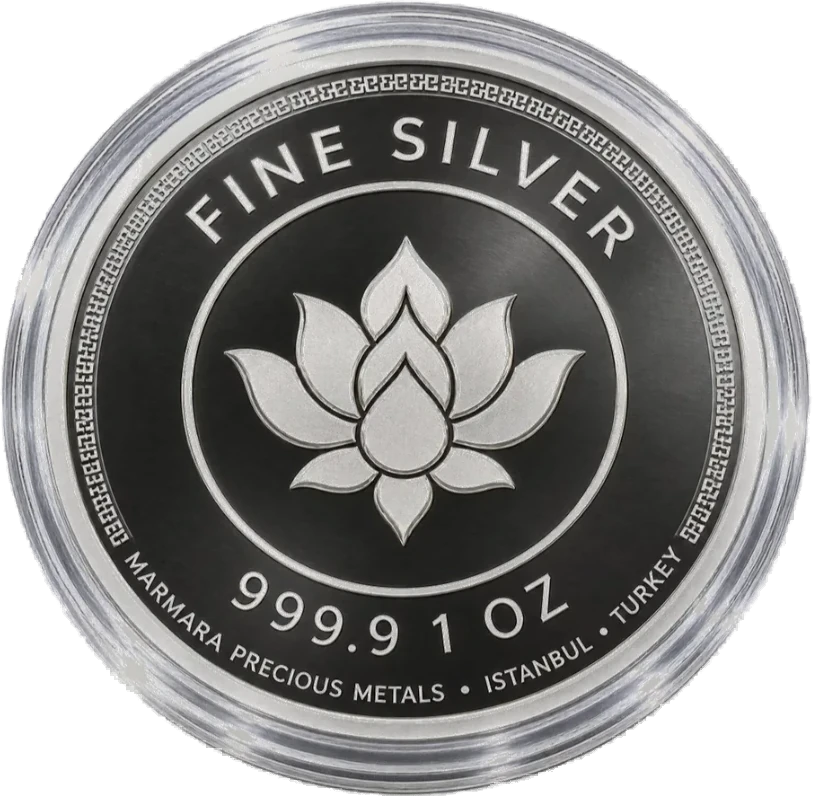
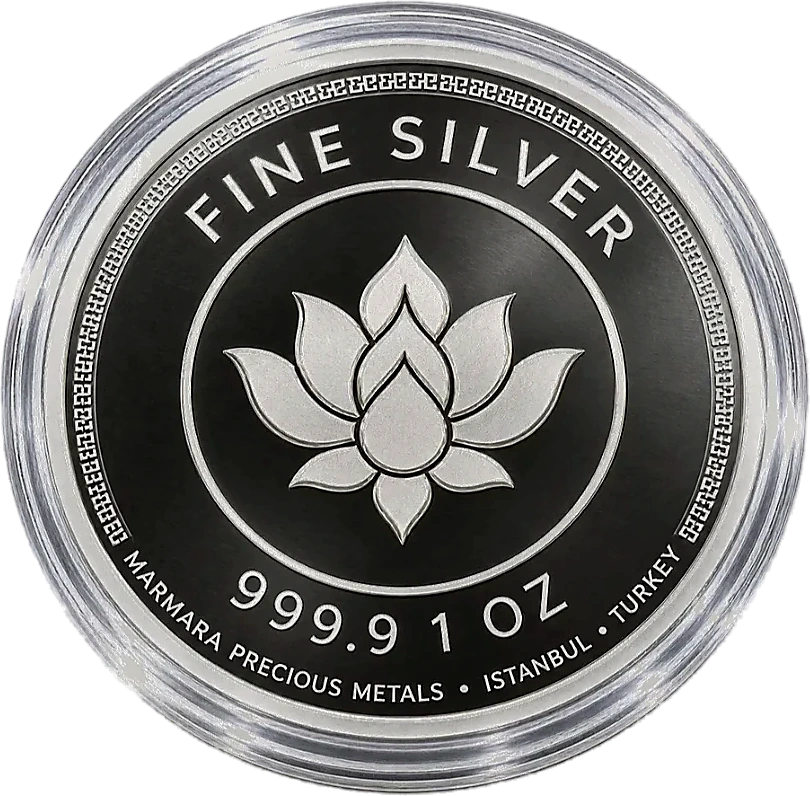
hero: bigger silver coin + richer shadow and glow, sharper matting
Three small polish passes on the hero image:

1. Asset re-matte
   · Pre-enhanced the source RGB (contrast +8%, saturation +5%,
     sharpness +15%) so the lotus face and black inner ring
     read with more depth before matting.
   · Dropped alpha_matting_erode_size 4 → 2 so the capsule rim
     stays intact; bumped foreground_threshold 240 → 250 so the
     mask decides more decisively and semi-translucent fringe
     doesn't survive.
   · Hardened the alpha post-pass — any alpha above 220 snaps
     to 255 (kills washed-out capsule ring look), below 20
     snaps to 0, rest kept as feather.
   · Unsharp mask over RGB (r=1.2, 130%, threshold 3) for a
     crisper engraving on the lotus and lettering.
   · Target size up 1000 → 1100 so retina displays get more
     bite. Final 810×796, 171 KB.

2. .coin — bigger
   · inset 7% → 2%, max-width 86% → 96% so the coin fills
     most of the right column instead of floating in the
     middle of a lot of empty space.

3. .coin — richer shadow
   · Was two drop-shadows (24px + 8px, both navy-tinted at
     22/15% alpha).
   · Now three — big soft body shadow (32px, 26% navy) +
     tight contact shadow (10px, 22% navy) + a hair-thin dark
     core shadow (2px, 8% black) for a crisp edge against
     the paper.

4. .coinGlow — bumped
   · inset 10% → 4%, center opacity 30 → 42%, blur 14 → 18px.
     Warmer, larger gold halo so the coin reads 'lit by
     something off-camera' rather than just lying on paper.

diff --git a/src/components/Hero/HeroScene.module.css b/src/components/Hero/HeroScene.module.css
@@ -40,32 +40,37 @@
 /* --- Soft gold glow behind the coin ---------------------------- */
 .coinGlow {
   position: absolute;
-  inset: 10%;
+  inset: 4%;
   z-index: 2;
   border-radius: 50%;
   background:
     radial-gradient(closest-side,
-      rgba(198, 161, 91, 0.30) 0%,
-      rgba(198, 161, 91, 0.14) 35%,
-      rgba(198, 161, 91, 0.04) 60%,
-      transparent 80%);
-  filter: blur(14px);
+      rgba(198, 161, 91, 0.42) 0%,
+      rgba(198, 161, 91, 0.22) 30%,
+      rgba(198, 161, 91, 0.08) 55%,
+      transparent 78%);
+  filter: blur(18px);
   animation: glow-pulse 6s ease-in-out infinite;
 }
 
 /* --- The coin itself ------------------------------------------- */
 .coin {
   position: absolute;
-  inset: 7%;
+  inset: 2%;                  /* was 7% — coin fills more of the frame */
   z-index: 3;
   width: auto;
   height: auto;
-  max-width: 86%;
-  max-height: 86%;
+  max-width: 96%;
+  max-height: 96%;
   margin: auto;
   object-fit: contain;
-  filter: drop-shadow(0 24px 36px rgba(9, 24, 93, 0.22))
-          drop-shadow(0 8px 14px rgba(9, 24, 93, 0.15));
+  /* Three-layer shadow:
+       1) big soft body shadow — gives the floating feel
+       2) tight dark contact shadow — anchors the coin to the paper
+       3) a subtle warm bounce (gold-tinted) for a lifted-off-cream glow */
+  filter: drop-shadow(0 32px 44px rgba(9, 24, 93, 0.26))
+          drop-shadow(0 10px 16px rgba(9, 24, 93, 0.22))
+          drop-shadow(0 2px 3px rgba(0, 0, 0, 0.08));
   animation: coin-float 7s ease-in-out infinite;
   will-change: transform;
 }
